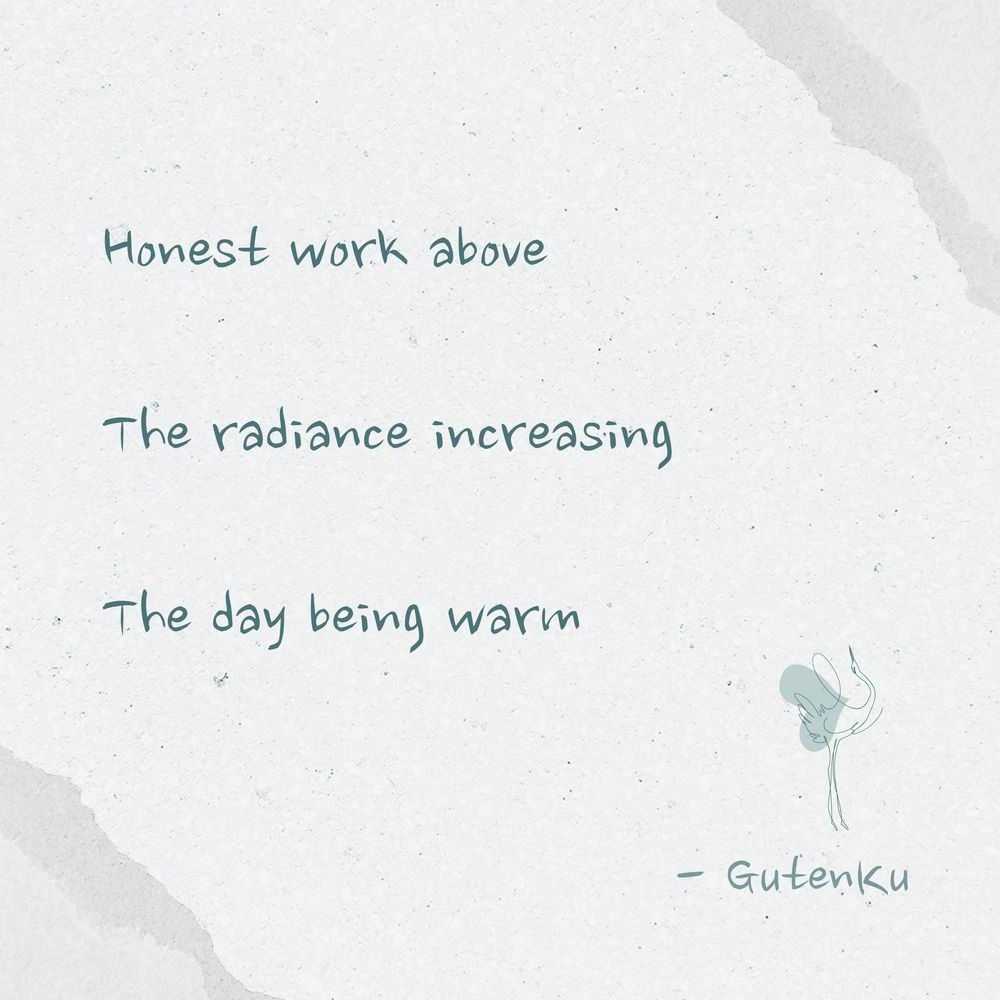
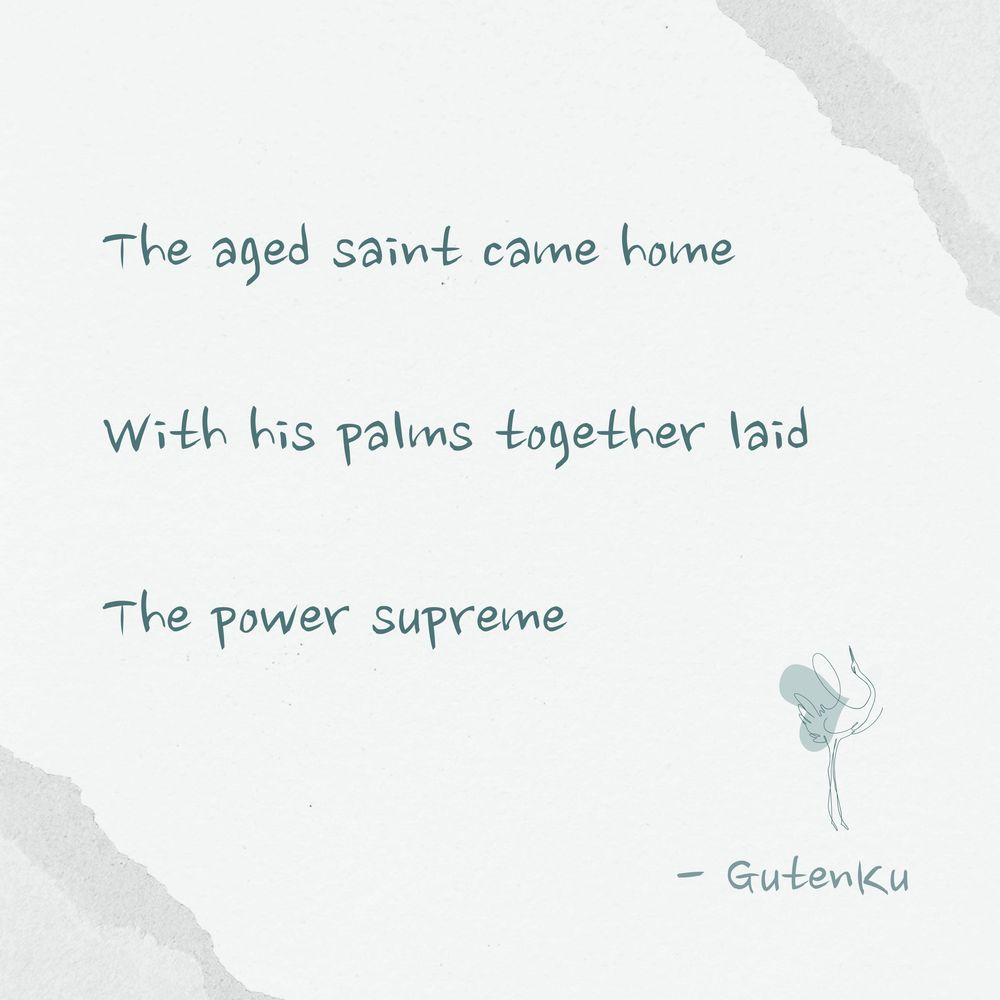
docs(readme): updated daily haiku card

diff --git a/README.md b/README.md
@@ -2,11 +2,11 @@
 
 ## 🌸 Daily Haiku Card 🗻
 
-<img src="/assets/img/daily_haiku_card.jpg?t=1732838401" width="300" alt="Daily Haiku Card">
+<img src="/assets/img/daily_haiku_card.jpg?t=1732924801" width="300" alt="Daily Haiku Card">
 
-Last Snapshot: `Fri, 29 Nov 2024 00:00:01 +0000`
+Last Snapshot: `Sat, 30 Nov 2024 00:00:01 +0000`
 
-> 👩🏫 “This haiku captures the essence of a warm, productive day. The phrase 'Honest work above' suggests a scene where labor is taking place, perhaps under the open sky. The 'radiance increasing' implies the sun rising higher, casting more light and warmth, symbolizing growth and progress. The final line, 'The day being warm,' ties the imagery together, evoking a sense of comfort and fulfillment that comes from both the physical warmth of the sun and the metaphorical warmth of honest effort. This haiku beautifully encapsulates the harmony between nature and human endeavor.”
+> 👩🏫 “This haiku captures a moment of profound peace and spiritual fulfillment. The 'aged saint' symbolizes wisdom and enlightenment, having journeyed through life and now returning home, a metaphor for reaching a state of inner tranquility. The image of 'palms together laid' suggests prayer or meditation, indicating a deep connection with the divine or the universe. The phrase 'The power supreme' implies that true strength lies in spiritual enlightenment and inner peace, rather than in physical prowess or material wealth. This haiku beautifully encapsulates the essence of spiritual completion and the serene power that comes with it.”
 >
 > 🤖✒ _Analysis Written by BotenKu, Your devoted Bot Literature Teacher_
 
